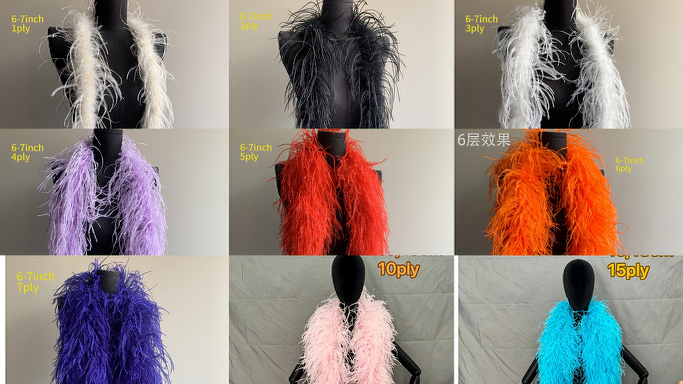
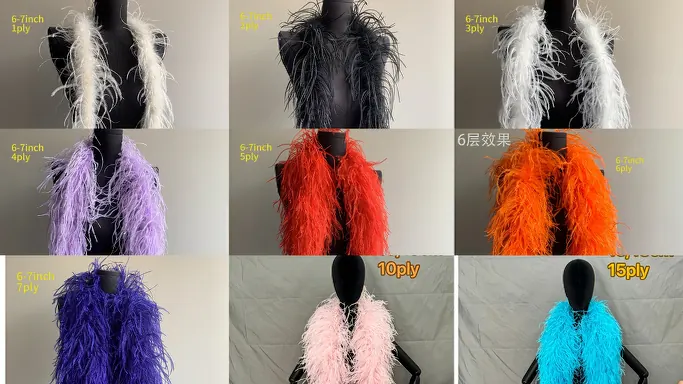
Optimize images (88% smaller) + fix LCP, CLS, font-display

diff --git a/index.html b/index.html
@@ -176,7 +176,7 @@
         <h2 class="text-2xl md:text-3xl font-bold text-primary text-center mb-10">About Our Factory</h2>
         <div class="grid md:grid-cols-2 gap-10 items-center">
             <div>
-                <img loading="lazy" src="factory-main.webp" alt="Factory and workshop" class="w-full h-auto rounded-lg mb-4" />
+                <img src="factory-main.webp" alt="Factory and workshop" class="w-full h-auto rounded-lg mb-4" fetchpriority="high" width="910" height="512" />
             </div>
             <div>
                 <h3 class="text-xl font-semibold mb-3">Foshan Dingsheng Caili Feather Products Co., Ltd.</h3>
@@ -195,9 +195,9 @@
             </div>
         </div>
         <div class="grid md:grid-cols-3 gap-4 mt-12">
-            <img loading="lazy" src="workshop.webp" alt="Workshop production scene" class="w-full h-56 object-cover rounded-lg" />
-            <img loading="lazy" src="warehouse.webp" alt="Raw feather stock warehouse" class="w-full h-56 object-cover rounded-lg" />
-            <img loading="lazy" src="qc-inspection.webp" alt="Quality control inspection" class="w-full h-56 object-cover rounded-lg" />
+            <img loading="lazy" src="workshop.webp" alt="Workshop production scene" class="w-full h-56 object-cover rounded-lg" width="740" height="416" />
+            <img loading="lazy" src="warehouse.webp" alt="Raw feather stock warehouse" class="w-full h-56 object-cover rounded-lg" width="555" height="416" />
+            <img loading="lazy" src="qc-inspection.webp" alt="Quality control inspection" class="w-full h-56 object-cover rounded-lg" width="554" height="416" />
         </div>
     </div>
 </section>
@@ -208,7 +208,7 @@
         <h2 class="text-2xl md:text-3xl font-bold text-primary text-center mb-10">Our Main Products</h2>
         <div class="grid md:grid-cols-2 gap-8">
             <div class="bg-white rounded-lg p-6 card-shadow border border-gray-100 card-equal">
-                <img loading="lazy" src="product-boa.webp" alt="Ostrich feather boa" class="w-full h-auto rounded mb-4" />
+                <img loading="lazy" src="product-boa.webp" alt="Ostrich feather boa" class="w-full h-auto rounded mb-4" width="683" height="384" />
                 <h3 class="text-xl font-semibold mb-2">Ostrich Feather Boa</h3>
                 <div class="mb-3">
                     <span class="tag tag-primary">By Yard / 6ft</span>
@@ -224,7 +224,7 @@
                 </ul>
             </div>
             <div class="bg-white rounded-lg p-6 card-shadow border border-gray-100 card-equal">
-                <img loading="lazy" src="product-fringe.webp" alt="Black ostrich feather fringe trimming" class="w-full h-auto rounded mb-4" />
+                <img loading="lazy" src="product-fringe.webp" alt="Black ostrich feather fringe trimming" class="w-full h-auto rounded mb-4" width="554" height="384" />
                 <h3 class="text-xl font-semibold mb-2">Feather Fringe / Trimming</h3>
                 <div class="mb-3">
                     <span class="tag tag-primary">By Yard</span>
@@ -249,7 +249,7 @@
         <h2 class="text-2xl md:text-3xl font-bold text-primary text-center mb-10">Application Scenarios</h2>
         <div class="grid md:grid-cols-2 lg:grid-cols-4 gap-6">
             <div class="bg-light p-5 rounded-lg card-equal">
-                <img loading="lazy" src="scene-wedding.webp" alt="Wedding and bridal feather" class="w-full h-auto max-h-72 object-contain rounded mb-4" />
+                <img loading="lazy" src="scene-wedding.webp" alt="Wedding and bridal feather" class="w-full h-auto max-h-72 object-contain rounded mb-4" width="600" height="600" />
                 <h4 class="font-semibold mb-2"><i class="fa fa-heart text-primary mr-1"></i>Wedding & Bridal Wear</h4>
                 <ul class="text-sm text-gray-700 space-y-1">
                     <li>• Feather boa for bridal gown, veil, accessories</li>
@@ -258,7 +258,7 @@
                 </ul>
             </div>
             <div class="bg-light p-5 rounded-lg card-equal">
-                <img loading="lazy" src="scene-stage.webp" alt="Stage and performance costume" class="w-full h-auto max-h-72 object-contain rounded mb-4" />
+                <img loading="lazy" src="scene-stage.webp" alt="Stage and performance costume" class="w-full h-auto max-h-72 object-contain rounded mb-4" width="600" height="600" />
                 <h4 class="font-semibold mb-2"><i class="fa fa-music text-primary mr-1"></i>Stage & Performance</h4>
                 <ul class="text-sm text-gray-700 space-y-1">
                     <li>• Full-volume boa for show, dance, carnival costume</li>
@@ -267,7 +267,7 @@
                 </ul>
             </div>
             <div class="bg-light p-5 rounded-lg card-equal">
-                <img loading="lazy" src="scene-runway.webp" alt="Fashion runway feather" class="w-full h-auto max-h-72 object-contain rounded mb-4" />
+                <img loading="lazy" src="scene-runway.webp" alt="Fashion runway feather" class="w-full h-auto max-h-72 object-contain rounded mb-4" width="600" height="600" />
                 <h4 class="font-semibold mb-2"><i class="fa fa-tshirt text-primary mr-1"></i>Fashion Runway</h4>
                 <ul class="text-sm text-gray-700 space-y-1">
                     <li>• Feather fringe & boa for couture garment decoration</li>
@@ -276,7 +276,7 @@
                 </ul>
             </div>
             <div class="bg-light p-5 rounded-lg card-equal">
-                <img loading="lazy" src="scene-diy.webp" alt="Craft and DIY feather" class="w-full h-auto max-h-72 object-contain rounded mb-4" />
+                <img loading="lazy" src="scene-diy.webp" alt="Craft and DIY feather" class="w-full h-auto max-h-72 object-contain rounded mb-4" width="600" height="600" />
                 <h4 class="font-semibold mb-2"><i class="fa fa-scissors text-primary mr-1"></i>Craft & DIY</h4>
                 <ul class="text-sm text-gray-700 space-y-1">
                     <li>• Party decor, handmade accessories, photo props</li>
